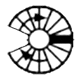
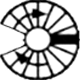
Add plain stait and ramp.

diff --git a/js/orb/common/urob/fixture.js b/js/orb/common/urob/fixture.js
@@ -502,8 +502,18 @@
             s1:new StatueFixtureTemplate(),
             p1:new PortalFixtureTemplate({name:'swirling silver portal'}),
             
-            stair_1:new StairFixtureTemplate({name:'spiral staircase'}),
-            stair_2:new FaceableStairFixtureTemplate({name:'switchback staircase'}),
+            stair_1:new StairFixtureTemplate({name:'spiral stairs'}),
+            stair_2:new FaceableStairFixtureTemplate({name:'switchback stairs'}),
+            stair_3:new FaceableStairFixtureTemplate({name:'stairs'}, [{
+                getUrl: (fixture, character) => {
+                    return IMAGE_PREFIX + 'stair_' + fixture.getStateByName(STATE_STAIR_DIRECTION) + '.png';
+                }
+            }]),
+            stair_4:new FaceableStairFixtureTemplate({name:'ramp'}, [{
+                getUrl: (fixture, character) => {
+                    return IMAGE_PREFIX + 'ramp_' + fixture.getStateByName(STATE_STAIR_DIRECTION) + '.png';
+                }
+            }]),
             
             crate_1:new FixtureTemplate({name:'wooden crate'})
         },
